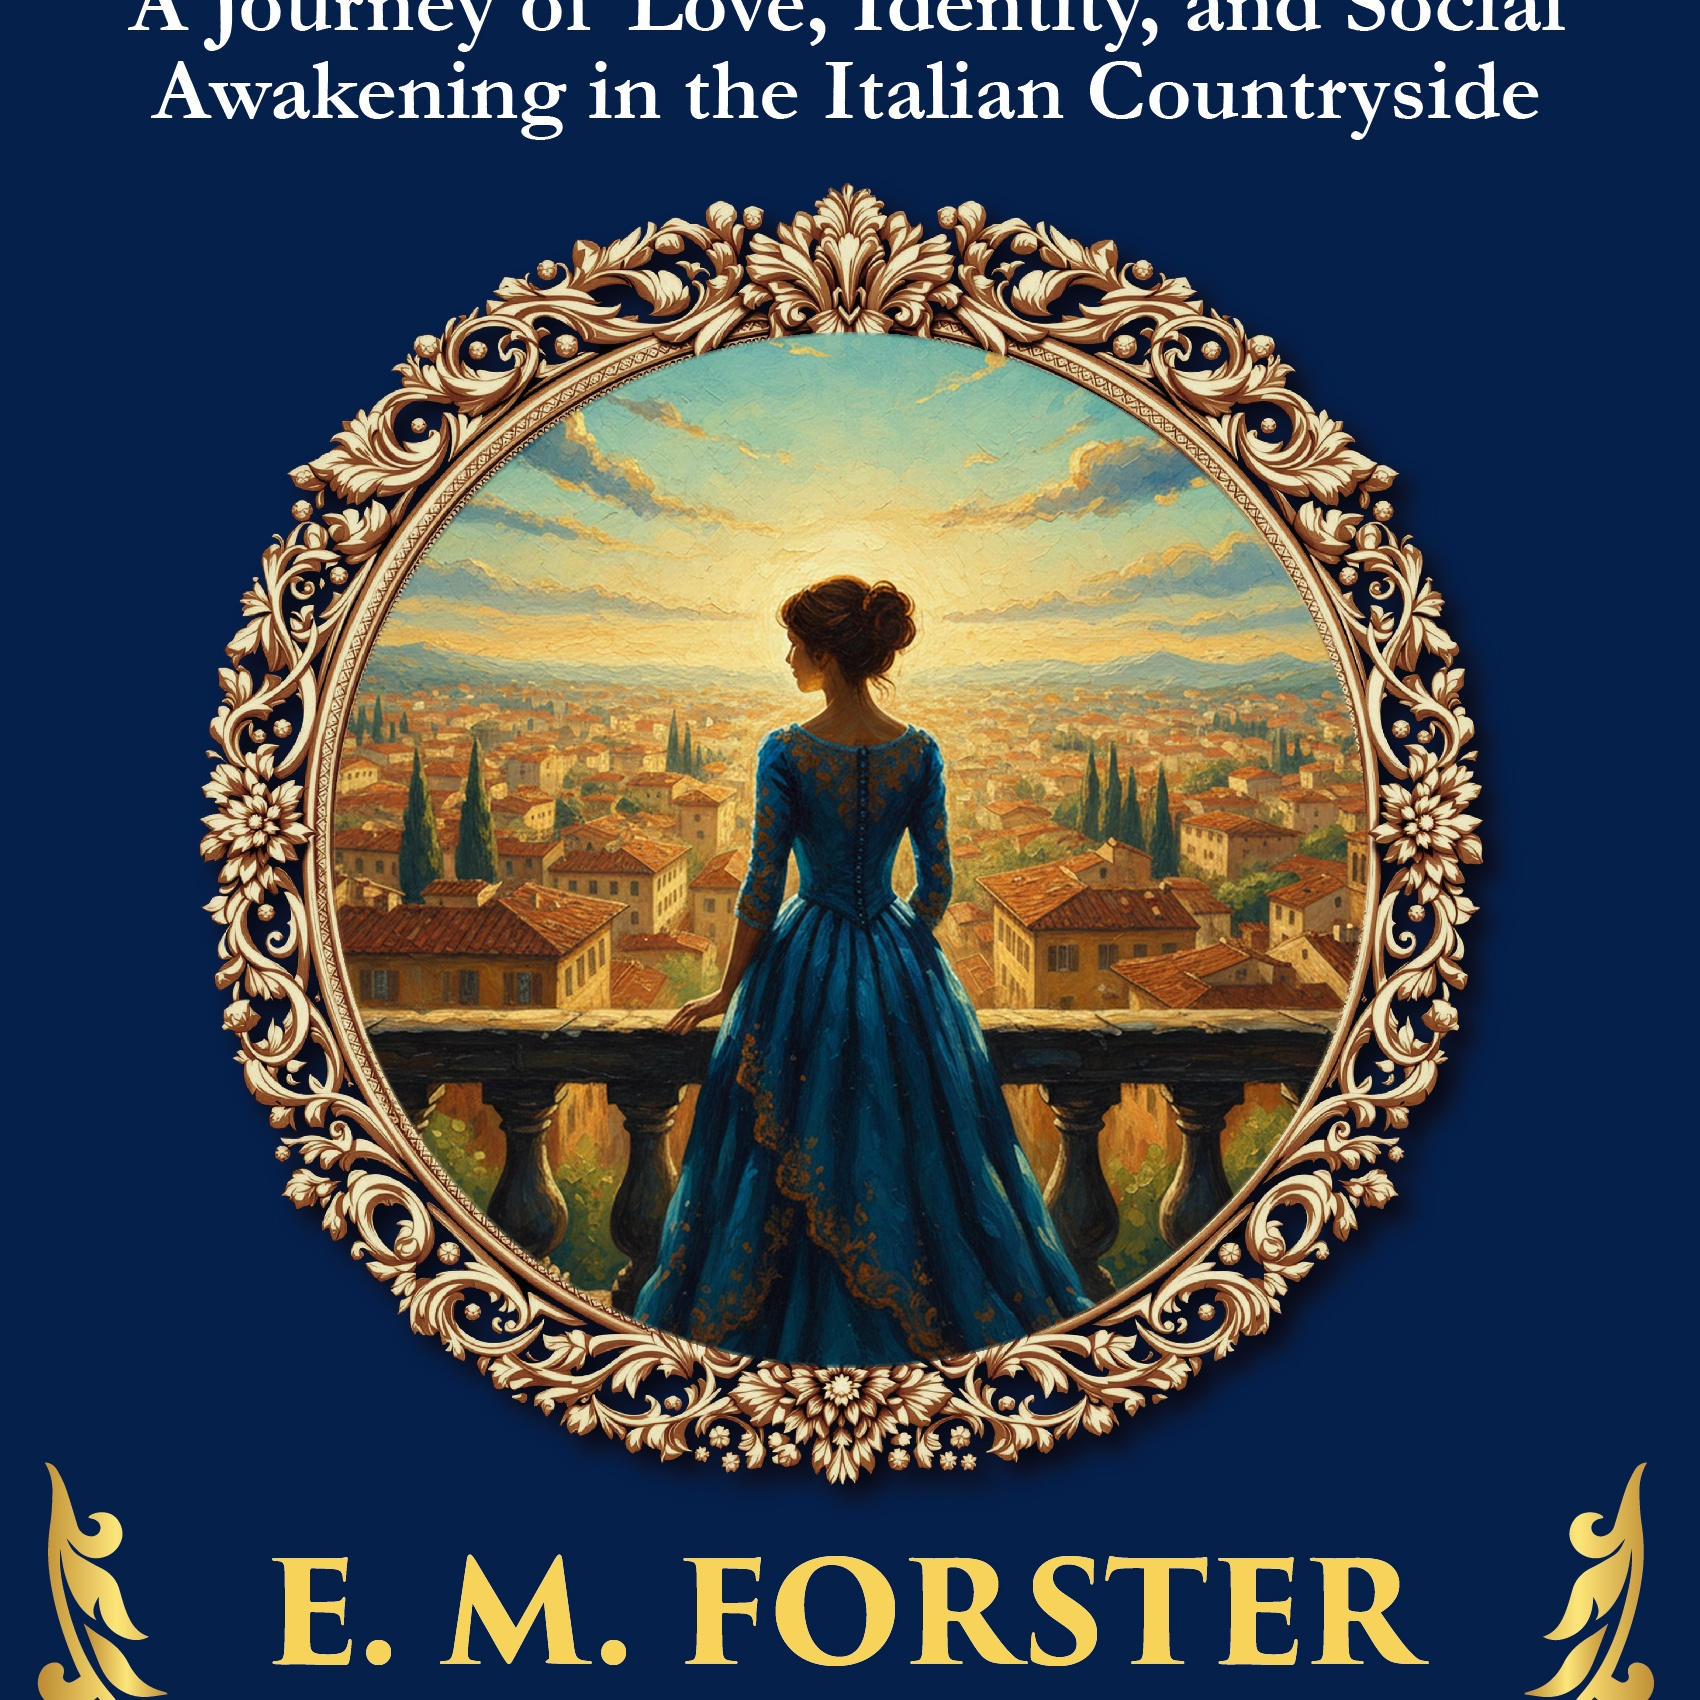
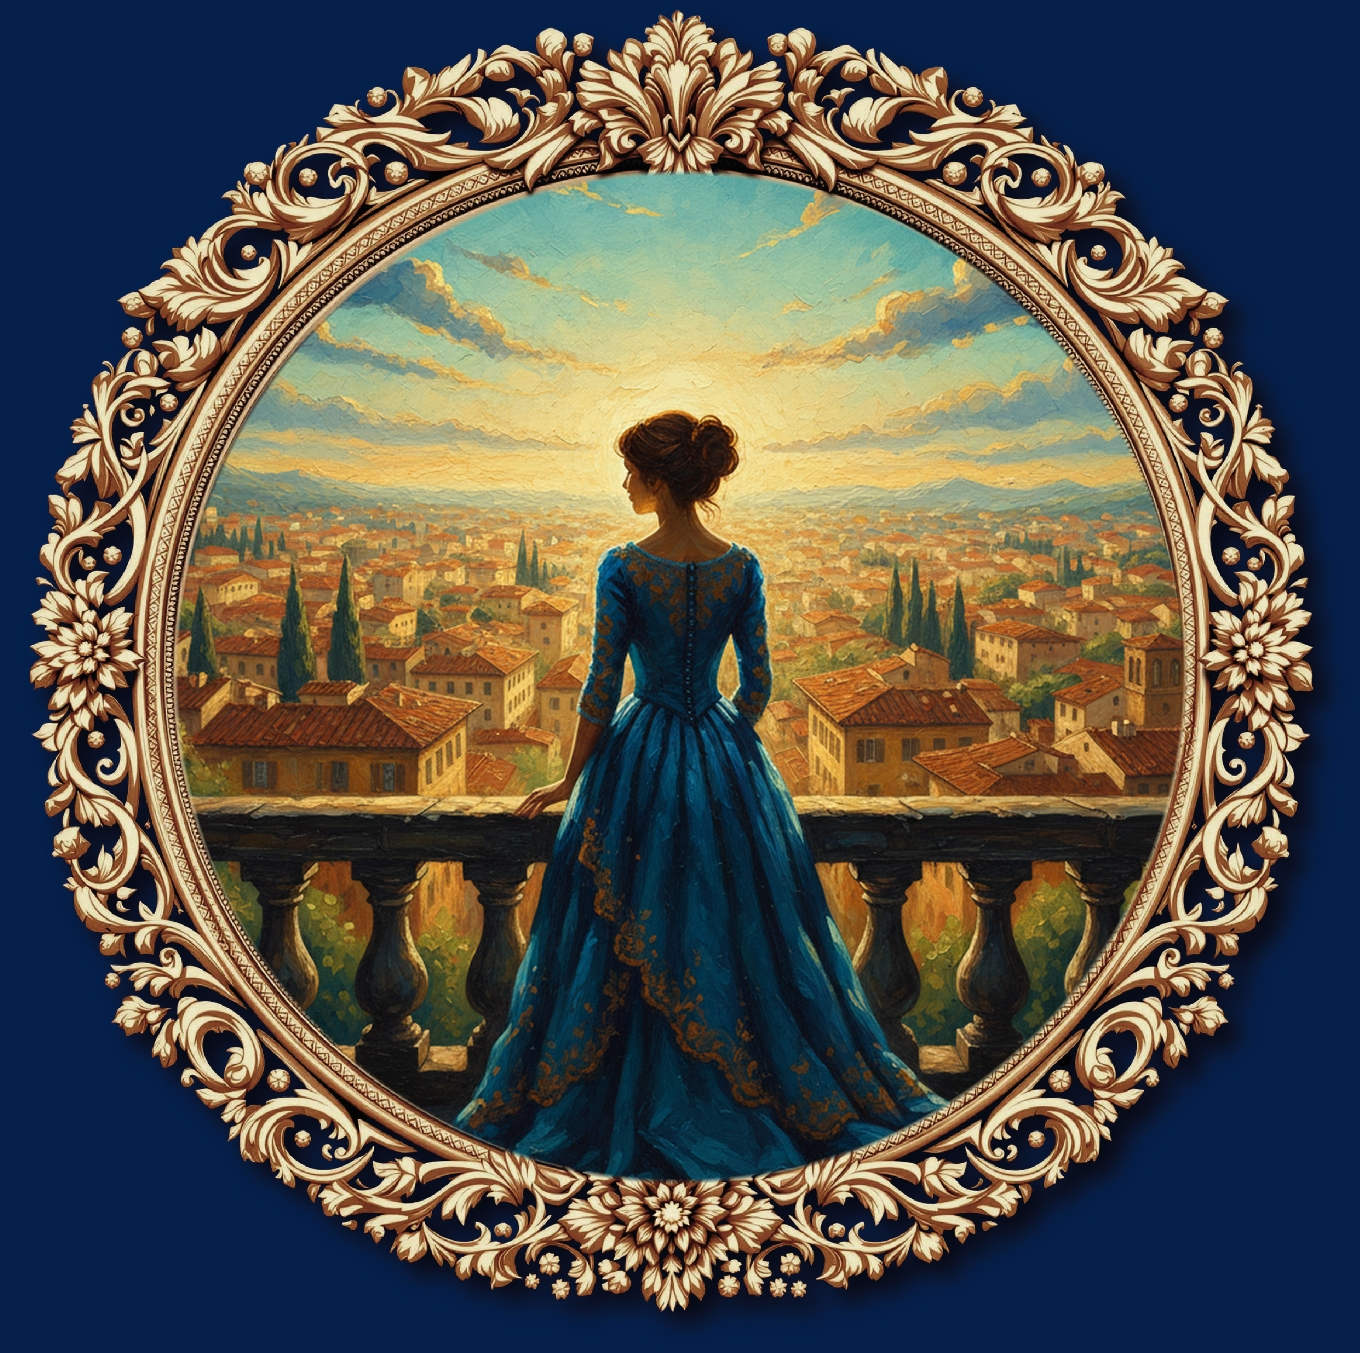
Fix compositor: dynamic SMask radius detection + art color fidelity
- compute_blend_radius_from_smask() analyzes PDF SMask to find frame boundary
- Detected r=925 (was hardcoded r=945) — just inside the beaded ring
- Removed edge trimming and margin cropping — art colors now pixel-perfect
- Fixed detect_blend_radius_from_smask() in pdf_swap_compositor (was no-op)
- Center validation: cross-checks PDF transform with SMask center of mass
- All ring ornaments (beads, crowns, scrollwork) fully preserved

diff --git a/index.html b/index.html
@@ -64,7 +64,7 @@ body { background: #0a0f1e; color: #e8e0d0; font-family: 'Georgia', serif; min-h
       <div class="panel">
         <h3>Composited Result</h3>
         <img src="images/composited_book1.jpg" alt="Composited" onclick="zoom(this.src)">
-        <div><span class="badge badge-info">Current (r=945)</span></div>
+        <div><span class="badge badge-pass">Fixed (dynamic SMask r=925)</span></div>
       </div>
     </div>
   </div>
@@ -174,14 +174,17 @@ body { background: #0a0f1e; color: #e8e0d0; font-family: 'Georgia', serif; min-h
 
   <div class="fix-summary">
     <h2>What Was Fixed</h2>
-    <p><strong>Root cause:</strong> The ornamental golden ring is a thick decorative band (~r=850 to ~r=960 in Im0 space) with crown/floral motifs at the cardinal points. The original compositor used a circle at r=945, which extended deep into this ring band, overwriting the inner decorations with AI art.</p>
-    <p><strong>The fix:</strong> Reduce the art circle radius so it stays entirely inside the ring:</p>
+    <p><strong>Root cause:</strong> The ornamental golden ring is a thick decorative band (~r=850 to ~r=960 in Im0 space) with crown/floral motifs at the cardinal points. The original compositor used a hardcoded circle at r=945, which extended deep into this ring band, overwriting the inner decorations with AI art.</p>
+    <p><strong>The fix:</strong> Dynamic SMask-based radius detection + art fidelity improvements:</p>
     <ul>
-      <li>Geometric circle tightened from r=945 to r=830&ndash;850 (inside the innermost ring decoration)</li>
-      <li>Hybrid mask <code>min(circle, smask)</code> still handles outer scrollwork</li>
+      <li><code>compute_blend_radius_from_smask()</code> analyzes the PDF's SMask to find where the frame begins, then subtracts a safety margin to stay inside the beaded ring</li>
+      <li>Detected radius: r=925 (was hardcoded r=945). Just inside the inner beaded ring.</li>
+      <li>Removed art edge trimming and margin cropping &mdash; AI art colors are now pixel-perfect</li>
+      <li>Fixed <code>detect_blend_radius_from_smask()</code> in pdf_swap_compositor (was a no-op)</li>
+      <li>Center validation: cross-checks PDF transform center with SMask center of mass</li>
       <li>All ring ornaments (beads, crowns, floral motifs) preserved pixel-perfect</li>
     </ul>
-    <p><strong>Files changed:</strong> <code>src/pdf_compositor.py</code> and <code>src/cover_compositor.py</code></p>
+    <p><strong>Files changed:</strong> <code>src/pdf_compositor.py</code>, <code>src/pdf_swap_compositor.py</code>, <code>tests/test_pdf_swap_compositor.py</code></p>
   </div>
 </div>
 
